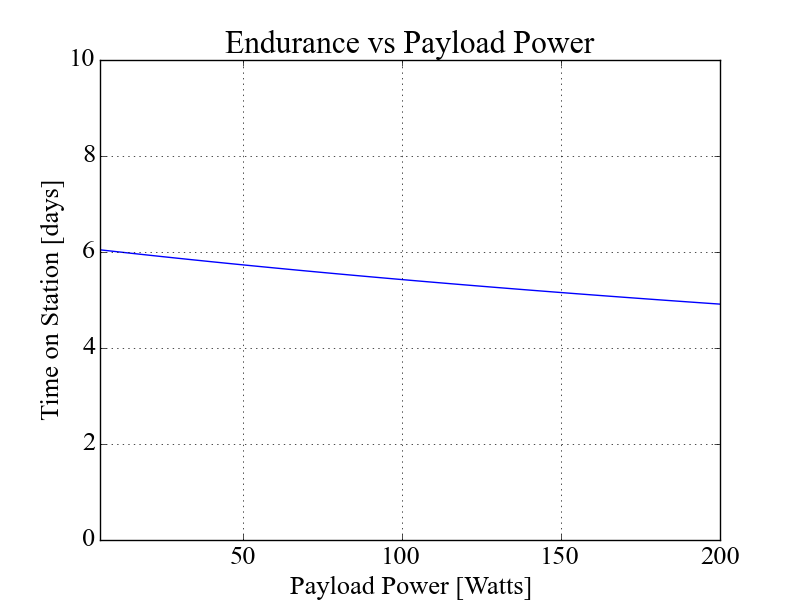
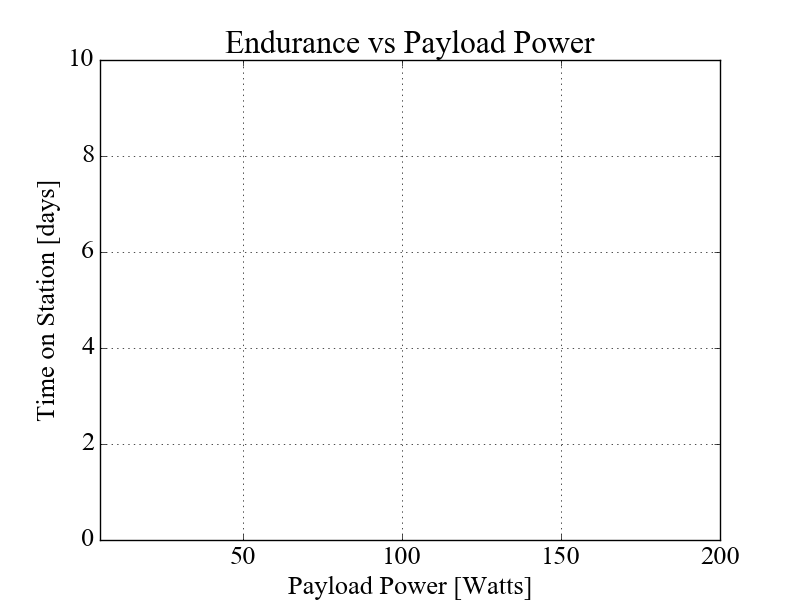
Fixing payload vs. endurance plots

diff --git a/1682/gas_male/gas_male_fixCDRhtry.py b/1682/gas_male/gas_male_fixCDRhtry.py
@@ -672,7 +672,7 @@ if __name__ == '__main__':
 
     if PLOT:
         
-        del M.substitutions["t_{station}"]
+        #del M.substitutions["t_{station}"]
         M.cost = 1/M["t_{station}"]
         
         if wind:
@@ -696,7 +696,7 @@ if __name__ == '__main__':
 
         if P_pay:
 
-            M.substitutions.update({'P_{pay}': ('sweep', np.linspace(5, 200, 40))})
+            M.substitutions.update({'P_{pay}': ('sweep', np.linspace(5, 200, 20))})
             sol = M.solve(solver='mosek', verbosity=0, skipsweepfailures=True)
 
             P_pay = sol('P_{pay}')
@@ -714,12 +714,10 @@ if __name__ == '__main__':
 
         if W_pay:
 
-            M.substitutions.update({'W_{pay}': ('sweep', np.linspace(5, 20, 16))})
+            M.substitutions.update({'W_{pay}': ('sweep', np.linspace(8, 18, 11))})
             sol = M.solve(solver='mosek', verbosity=0, skipsweepfailures=True)
-
             W_pay = sol('W_{pay}')
             t_station = sol('t_{station}')
-
             df = pd.read_csv('trimDrag.csv')
             df = df.dropna()
             CD10 = df['CD_interp'][df['W_pay_interp']==10]
@@ -733,7 +731,7 @@ if __name__ == '__main__':
             plt.xlabel('Payload Weight [lbs]')
             plt.ylabel('Time on Station [days]')
             plt.grid()
-            plt.axis([5, 20, 0, 10])
+            plt.axis([8, 18, 0, 10])
             plt.savefig('tvsW_pay.png')
 
         if altitude:
